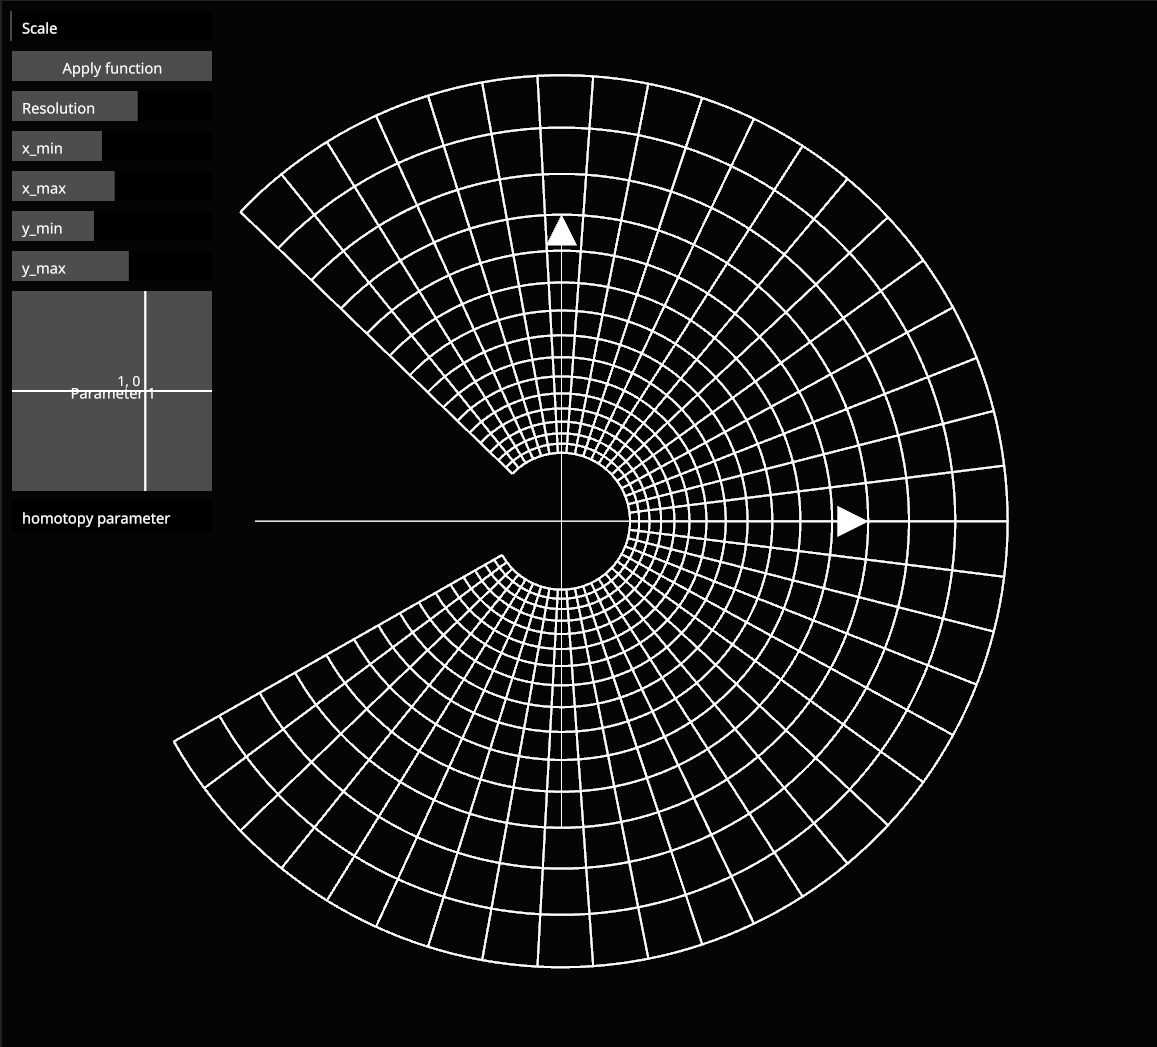
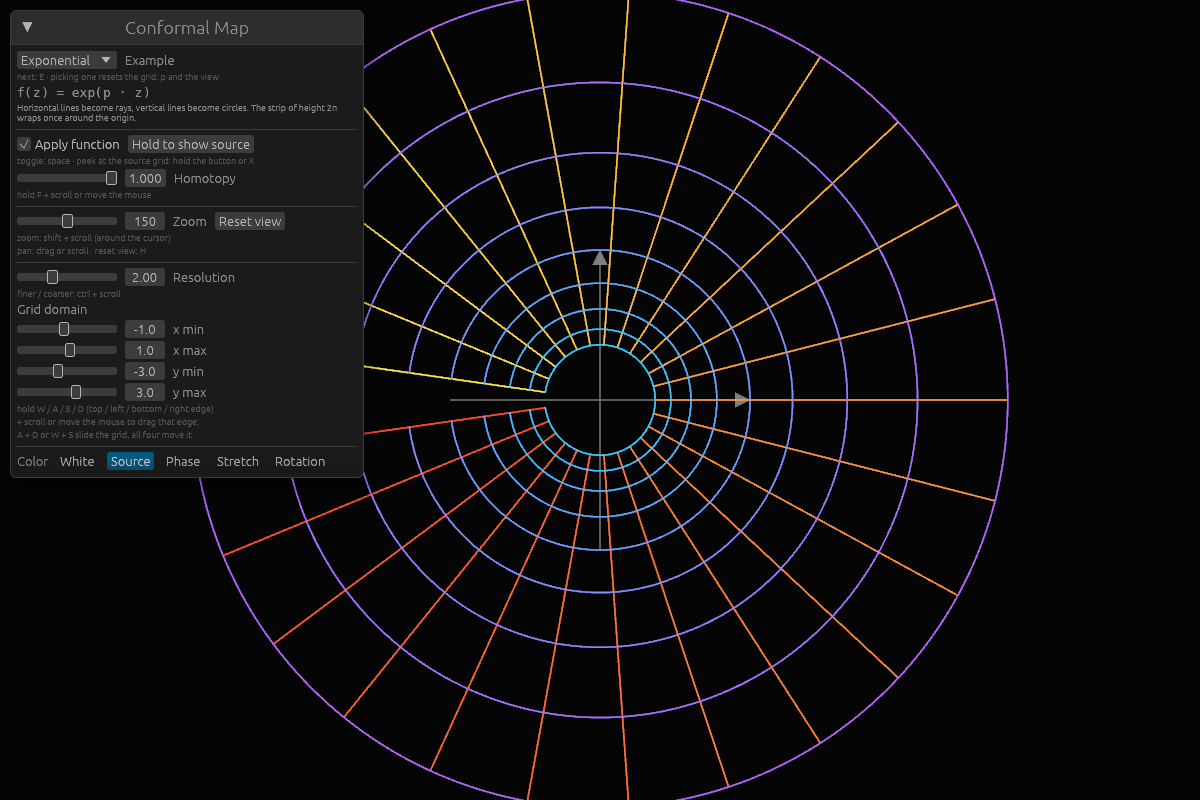
Example functions in the control panel, with Escher's Print Gallery
The control window gets an Example menu (E steps through it): Möbius,
exponential, power, sine, Joukowski and the map behind Escher's Print
Gallery, w ↦ w^(1/α) with α = (2πi + log 256) / 2πi, drawn on a log-polar
grid so the spiral zooms in forever. Each example brings its own grid and
parameter, a short explanation and links to further reading. The shader
picks the case of `f` by index.

The README shows new screenshots: the basic Möbius example first, then
Escher, then the z³ band and the rest.

diff --git a/src/main.rs b/src/main.rs
@@ -5,9 +5,91 @@ use nannou::prelude::render::ShaderModel;
 use nannou::prelude::*;
 use num::Complex;
 
-/// Shown in the control window; keep in sync with `f` in `src/grid.wgsl`,
-/// which is where the function being visualized lives.
-const FUNCTION_LABEL: &str = "f(z) = p · (1 − z) / (1 + z)";
+/// A function to look at, with a grid and parameter that show it well.
+struct Example {
+    name: &'static str,
+    formula: &'static str,
+    about: &'static str,
+    /// Further reading: (link text, URL).
+    links: &'static [(&'static str, &'static str)],
+    /// x min, x max, y min, y max.
+    grid: [f32; 4],
+    parameter: Complex<f32>,
+}
+
+/// The functions on offer. `EXAMPLES[i]` is case `i` of `f` in `src/grid.wgsl`,
+/// which is where they are evaluated.
+const EXAMPLES: [Example; 6] = [
+    Example {
+        name: "Möbius",
+        formula: "f(z) = p · (1 − z) / (1 + z)",
+        about: "A Möbius transformation: it maps lines and circles to lines and circles. \
+                Every Möbius transformation contains a Mickey Mouse (unproven conjecture).",
+        links: &[],
+        grid: [0.0, 1.0, 0.0, 1.0],
+        parameter: Complex::new(1.0, 0.0),
+    },
+    Example {
+        name: "Exponential",
+        formula: "f(z) = exp(p · z)",
+        about: "Horizontal lines become rays, vertical lines become circles. \
+                The strip of height 2π wraps once around the origin.",
+        links: &[],
+        grid: [-1.0, 1.0, -3.0, 3.0],
+        parameter: Complex::new(1.0, 0.0),
+    },
+    Example {
+        name: "Power",
+        formula: "f(z) = z^p",
+        about: "For real p it multiplies angles at the origin by p. \
+                Try a tall rectangle just right of 0.",
+        links: &[],
+        grid: [0.5, 1.0, -1.0, 1.0],
+        parameter: Complex::new(3.0, 0.0),
+    },
+    Example {
+        name: "Sine",
+        formula: "f(z) = p · sin z",
+        about: "Vertical lines become hyperbolas, horizontal lines ellipses, \
+                all with foci at ±p.",
+        links: &[],
+        grid: [-1.5, 1.5, -1.0, 1.0],
+        parameter: Complex::new(1.0, 0.0),
+    },
+    Example {
+        name: "Joukowski",
+        formula: "f(z) = z + p / z",
+        about: "The Joukowski map, used to model airfoils. It folds the circle |z| = √|p| \
+                onto a segment; inside and outside that circle each cover the rest \
+                of the plane once.",
+        links: &[],
+        grid: [-2.0, 2.0, -2.0, 2.0],
+        parameter: Complex::new(1.0, 0.0),
+    },
+    Example {
+        name: "Escher",
+        formula: "f(z) = p · exp(z)^(1/α)",
+        about: "M. C. Escher's Print Gallery (1956), with α = (2πi + log 256) / 2πi \
+                ≈ 1 − 0.8825i. The straight picture behind it contains itself, scaled \
+                down by 256. Escher's map w ↦ w^(1/α) curls it so that one turn around \
+                the centre zooms by 256: his picture contains a copy of itself shrunk by \
+                22.58 and turned by 157.6°, so it zooms in forever while circling the \
+                origin. The grid is the straight picture in log coordinates, w = exp(z): \
+                vertical lines are circles around its centre, horizontal lines are rays.",
+        links: &[
+            (
+                "Print Gallery on Wikipedia",
+                "https://en.wikipedia.org/wiki/Print_Gallery_(M._C._Escher)",
+            ),
+            (
+                "de Smit & Lenstra: The Mathematical Structure of Escher's Print Gallery",
+                "https://pub.math.leidenuniv.nl/~smitbde/papers/2003-de_smit-lenstra-escher.pdf",
+            ),
+        ],
+        grid: [-12.0, -1.0, -3.0, 3.25],
+        parameter: Complex::new(1.0, 0.0),
+    },
+];
 
 /// Points per scroll "line" for mice that report wheel clicks instead of pixels.
 const POINTS_PER_LINE: f32 = 24.0;
@@ -75,6 +157,7 @@ struct GridParams {
     blend: f32,
     line_width: f32,
     coloring: u32,
+    example: u32,
 }
 
 /// How grid lines are colored. The discriminants are the `COLORING_*`
@@ -119,6 +202,8 @@ impl Coloring {
 
 struct Model {
     window: Entity,
+    /// Index into `EXAMPLES`: the function shown.
+    example: usize,
     /// Screen points per unit length in the complex plane.
     pixels_per_unit: f32,
     /// Offset of the complex plane, in plane units.
@@ -167,6 +252,19 @@ impl Model {
         }
     }
 
+    /// Shows `EXAMPLES[index]` with its own grid and parameter.
+    fn set_example(&mut self, index: usize) {
+        let example = &EXAMPLES[index];
+        self.example = index;
+        [self.x_min, self.x_max, self.y_min, self.y_max] = example.grid;
+        self.parameter = example.parameter;
+        self.reset_view();
+    }
+
+    fn reset_parameter(&mut self) {
+        self.parameter = EXAMPLES[self.example].parameter;
+    }
+
     fn reset_view(&mut self) {
         self.pixels_per_unit = DEFAULT_PIXELS_PER_UNIT;
         self.position = Vec2::ZERO;
@@ -212,17 +310,20 @@ fn model(app: &App) -> Model {
     // Only redraw on input; the picture is static otherwise.
     app.set_update_mode(UpdateMode::wait());
 
+    let example = &EXAMPLES[0];
+    let [x_min, x_max, y_min, y_max] = example.grid;
     Model {
         window,
+        example: 0,
         pixels_per_unit: DEFAULT_PIXELS_PER_UNIT,
         position: Vec2::ZERO,
         apply_function: true,
         resolution: 2.0,
-        x_min: 0.0,
-        x_max: 1.0,
-        y_min: 0.0,
-        y_max: 1.0,
-        parameter: Complex::new(1.0, 0.0),
+        x_min,
+        x_max,
+        y_min,
+        y_max,
+        parameter: example.parameter,
         homotopy: 1.0,
         coloring: Coloring::default(),
         drag: None,
@@ -297,13 +398,36 @@ fn key_gesture(model: &mut Model, keys: &ButtonInput<KeyCode>, delta: Vec2) -> b
     used
 }
 
+/// Picks the function to show, and says what it is.
+fn example_picker(ui: &mut egui::Ui, model: &mut Model) {
+    let mut index = model.example;
+    egui::ComboBox::from_label("Example")
+        .selected_text(EXAMPLES[index].name)
+        .show_ui(ui, |ui| {
+            for (i, example) in EXAMPLES.iter().enumerate() {
+                ui.selectable_value(&mut index, i, example.name);
+            }
+        });
+    if index != model.example {
+        model.set_example(index);
+    }
+    hint(ui, "next: E · picking one resets the grid, p and the view");
+
+    let example = &EXAMPLES[model.example];
+    ui.monospace(example.formula);
+    ui.small(example.about);
+    for &(text, url) in example.links {
+        ui.hyperlink_to(egui::RichText::new(text).small(), url);
+    }
+}
+
 /// A faint line under a control that lists its shortcuts.
 fn hint(ui: &mut egui::Ui, text: &str) {
     ui.label(egui::RichText::new(text).small().weak());
 }
 
 fn controls(ui: &mut egui::Ui, model: &mut Model) {
-    ui.monospace(FUNCTION_LABEL);
+    example_picker(ui, model);
     ui.separator();
 
     ui.horizontal(|ui| {
@@ -361,7 +485,7 @@ fn controls(ui: &mut egui::Ui, model: &mut Model) {
     ui.horizontal(|ui| {
         ui.label("Parameter p");
         if ui.button("Reset").clicked() {
-            model.parameter = Complex::new(1.0, 0.0);
+            model.reset_parameter();
         }
     });
     ui.horizontal(|ui| {
@@ -491,7 +615,8 @@ fn key_pressed(app: &App, model: &mut Model, key: KeyCode) {
     ];
     match key {
         KeyCode::Space => model.apply_function = !model.apply_function,
-        KeyCode::KeyR => model.parameter = Complex::new(1.0, 0.0),
+        KeyCode::KeyR => model.reset_parameter(),
+        KeyCode::KeyE => model.set_example((model.example + 1) % EXAMPLES.len()),
         KeyCode::KeyH | KeyCode::Home => model.reset_view(),
         KeyCode::KeyC => model.coloring = model.coloring.next(),
         _ => {
@@ -595,6 +720,7 @@ fn view(app: &App, model: &Model) {
         blend: model.blend(),
         line_width: LINE_WIDTH,
         coloring: model.coloring as u32,
+        example: model.example as u32,
     };
     // One quad, drawn once per segment; the shader places its corners.
     let grid = draw.shader_model(GridShader { params });

diff --git a/README.md b/README.md
@@ -4,17 +4,48 @@ Built with [nannou](https://nannou.cc) 0.20 (on Bevy) and its egui integration.
 
 ## Examples
 
-The exponential function of course looks like this:
-![exp(z)](/examples/exponential.png)
+Pick one from the **Example** menu in the control window, or press `e` to step
+through them. Each brings its own grid and parameter. The screenshots use the
+Source coloring (`2`): horizontal lines warm, vertical lines cool.
 
-While z^3 looks like this shape when applied to a tall rectangle just right of 0:
-![z^3](/examples/z^3.png)
+The basic one is a Möbius transformation, p · (1 − z)/(1 + z), applied to the
+unit square. It should be called a Mickey Mouse function, as every Möbius
+transformation contains a Mickey Mouse (unproven conjecture).
 
-This is a Möbius Transformation, in particular (1-z)/(1+z), but it should be called
-a Mickey Mouse function, as every Möbius Transformation contains a Mickey Mouse 
-(unproven Conjecture)
+![Möbius transformation](examples/mobius.png)
 
-![mickey_mouse](/examples/mickey_mouse.png)
+The coolest one is M. C. Escher's
+[Print Gallery](https://en.wikipedia.org/wiki/Print_Gallery_(M._C._Escher))
+(1956): a young man in a gallery looks at a print of a town that contains the
+gallery he is standing in. De Smit and Lenstra worked out the math in
+[The Mathematical Structure of Escher's Print Gallery](https://pub.math.leidenuniv.nl/~smitbde/papers/2003-de_smit-lenstra-escher.pdf)
+(Notices of the AMS, 2003). Escher started from a straight picture that
+contains itself, scaled down by 256, and curled it with
+
+$$w \mapsto w^{1/\alpha}, \qquad \alpha = \frac{2\pi i + \log 256}{2\pi i} \approx 1 - 0.8825i,$$
+
+so that one turn around the centre zooms in by 256. His picture contains a copy
+of itself shrunk by 22.58 and turned by 157.6°, so it zooms in forever while
+circling the origin. The grid here is the straight picture in log coordinates,
+w = exp(z): vertical lines are circles around its centre, horizontal lines are
+rays. The map draws them the way Escher curled them:
+
+![Escher's Print Gallery map](examples/escher.png)
+
+Zoom in on the centre (`shift + scroll`) and the spiral keeps going:
+
+![Escher's Print Gallery map, zoomed in](examples/escher-zoom.png)
+
+z³ applied to a tall rectangle just right of 0 (the Power example, z^p with
+p = 3) wraps the band around the origin:
+
+![z^3](examples/power.png)
+
+The others: exp(p · z), p · sin z and the Joukowski map z + p / z.
+
+![exp(z)](examples/exponential.png)
+![sin z](examples/sine.png)
+![Joukowski map](examples/joukowski.png)
 
 ## Development
 
@@ -45,12 +76,17 @@ Both print the store path. The binary is `<path>/bin/conformal-visualizer`.
 
 ## Usage
 * The grid is mapped on the GPU: `src/grid.wgsl` evaluates the function for
-  every point, so the grid can be dense. There is
-  no function parser, so change `f` in that shader (and `FUNCTION_LABEL` at the
-  top of `src/main.rs`):
+  every point, so the grid can be dense. There is no function parser. To add a
+  function, add a case to `f` in that shader and an entry at the same index to
+  `EXAMPLES` at the top of `src/main.rs` (name, formula, grid, parameter):
   ```wgsl
   fn f(z: vec2<f32>, p: vec2<f32>) -> vec2<f32> {
-      return cmul(cdiv(ONE - z, ONE + z), p);
+      switch params.example {
+          case 1u: {
+              return cexp(cmul(p, z));
+          }
+          // ...
+      }
   }
   ```
   Complex numbers are `vec2(re, im)`. Add and subtract with `+` and `-`; the
@@ -84,9 +120,10 @@ Both print the store path. The binary is `<path>/bin/conformal-visualizer`.
       `ctrl + a + scroll` works the same, and the touchpad stays on. This goes
       for `p` and `f` below too
     * hold `p` and scroll or move the mouse, or right-drag the canvas, to move
-      the parameter `p`; `r` resets it
+      the parameter `p`; `r` resets it to the example's value
     * hold `f` and scroll or move the mouse to blend from the identity to `f`
       (the homotopy)
+    * `e` steps to the next example
     * `space` toggles applying the function; hold `x` or the "Hold to show
       source" button to peek at the source grid
     * the control window has sliders for everything, with these shortcuts
